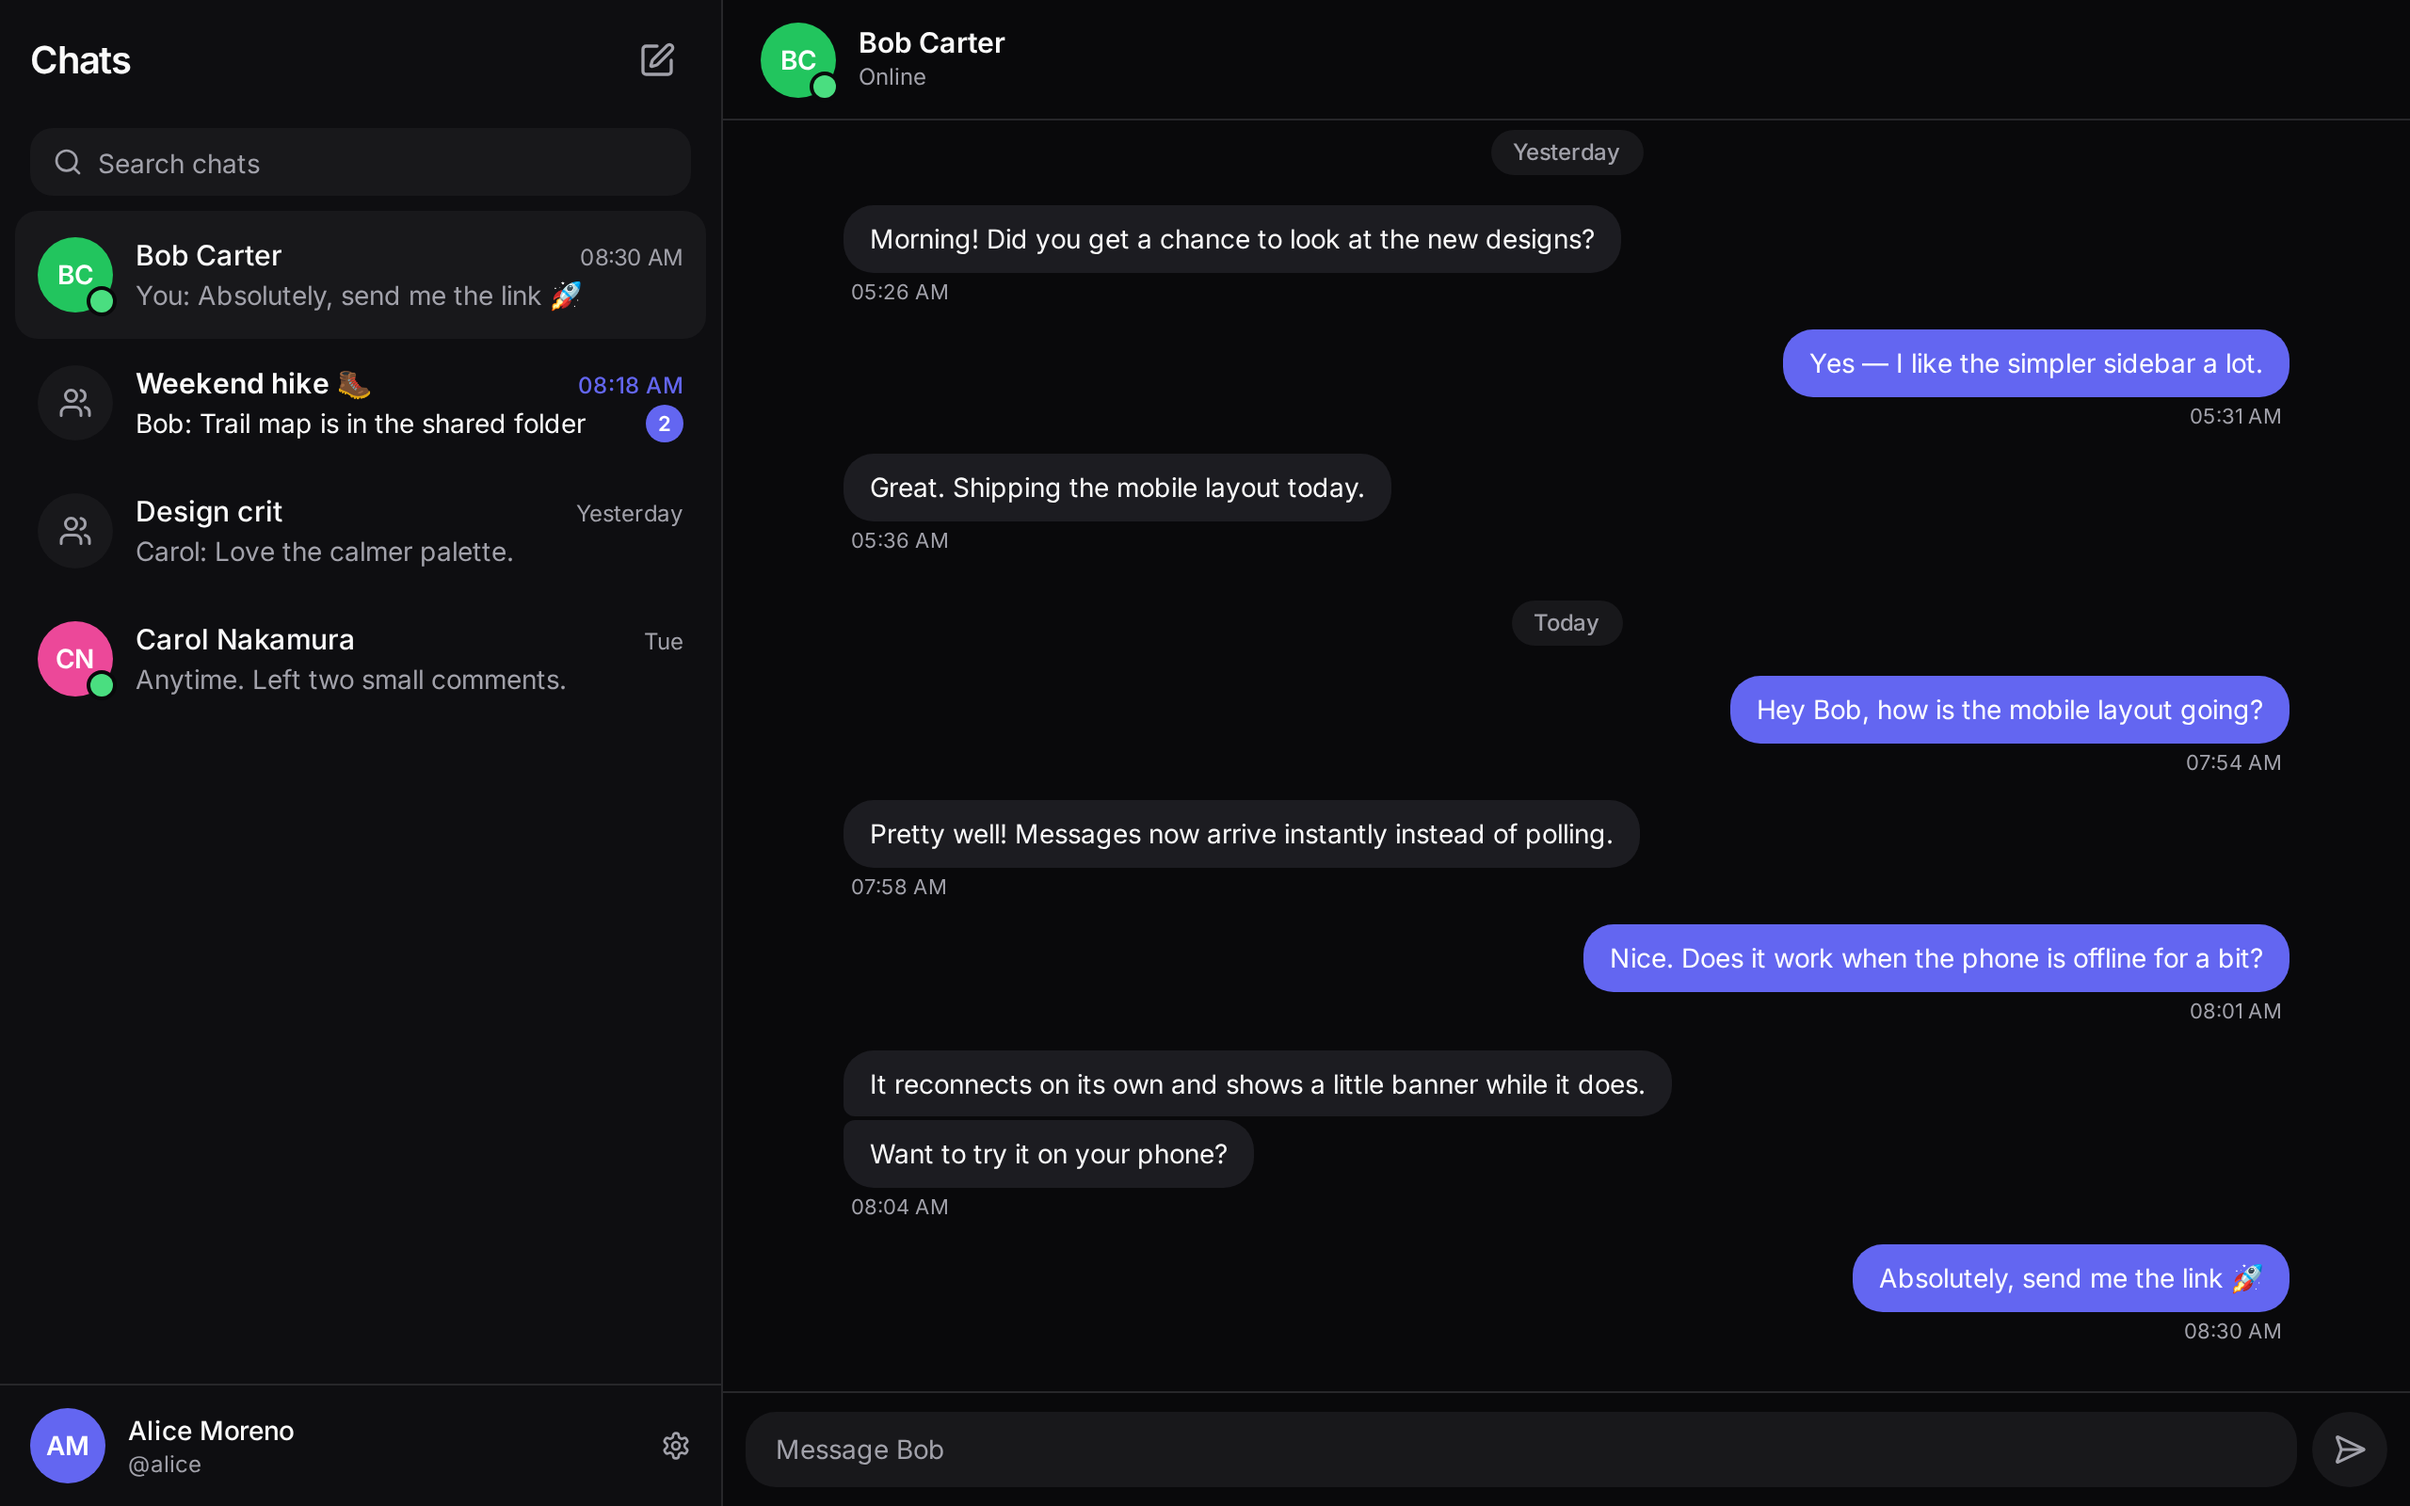
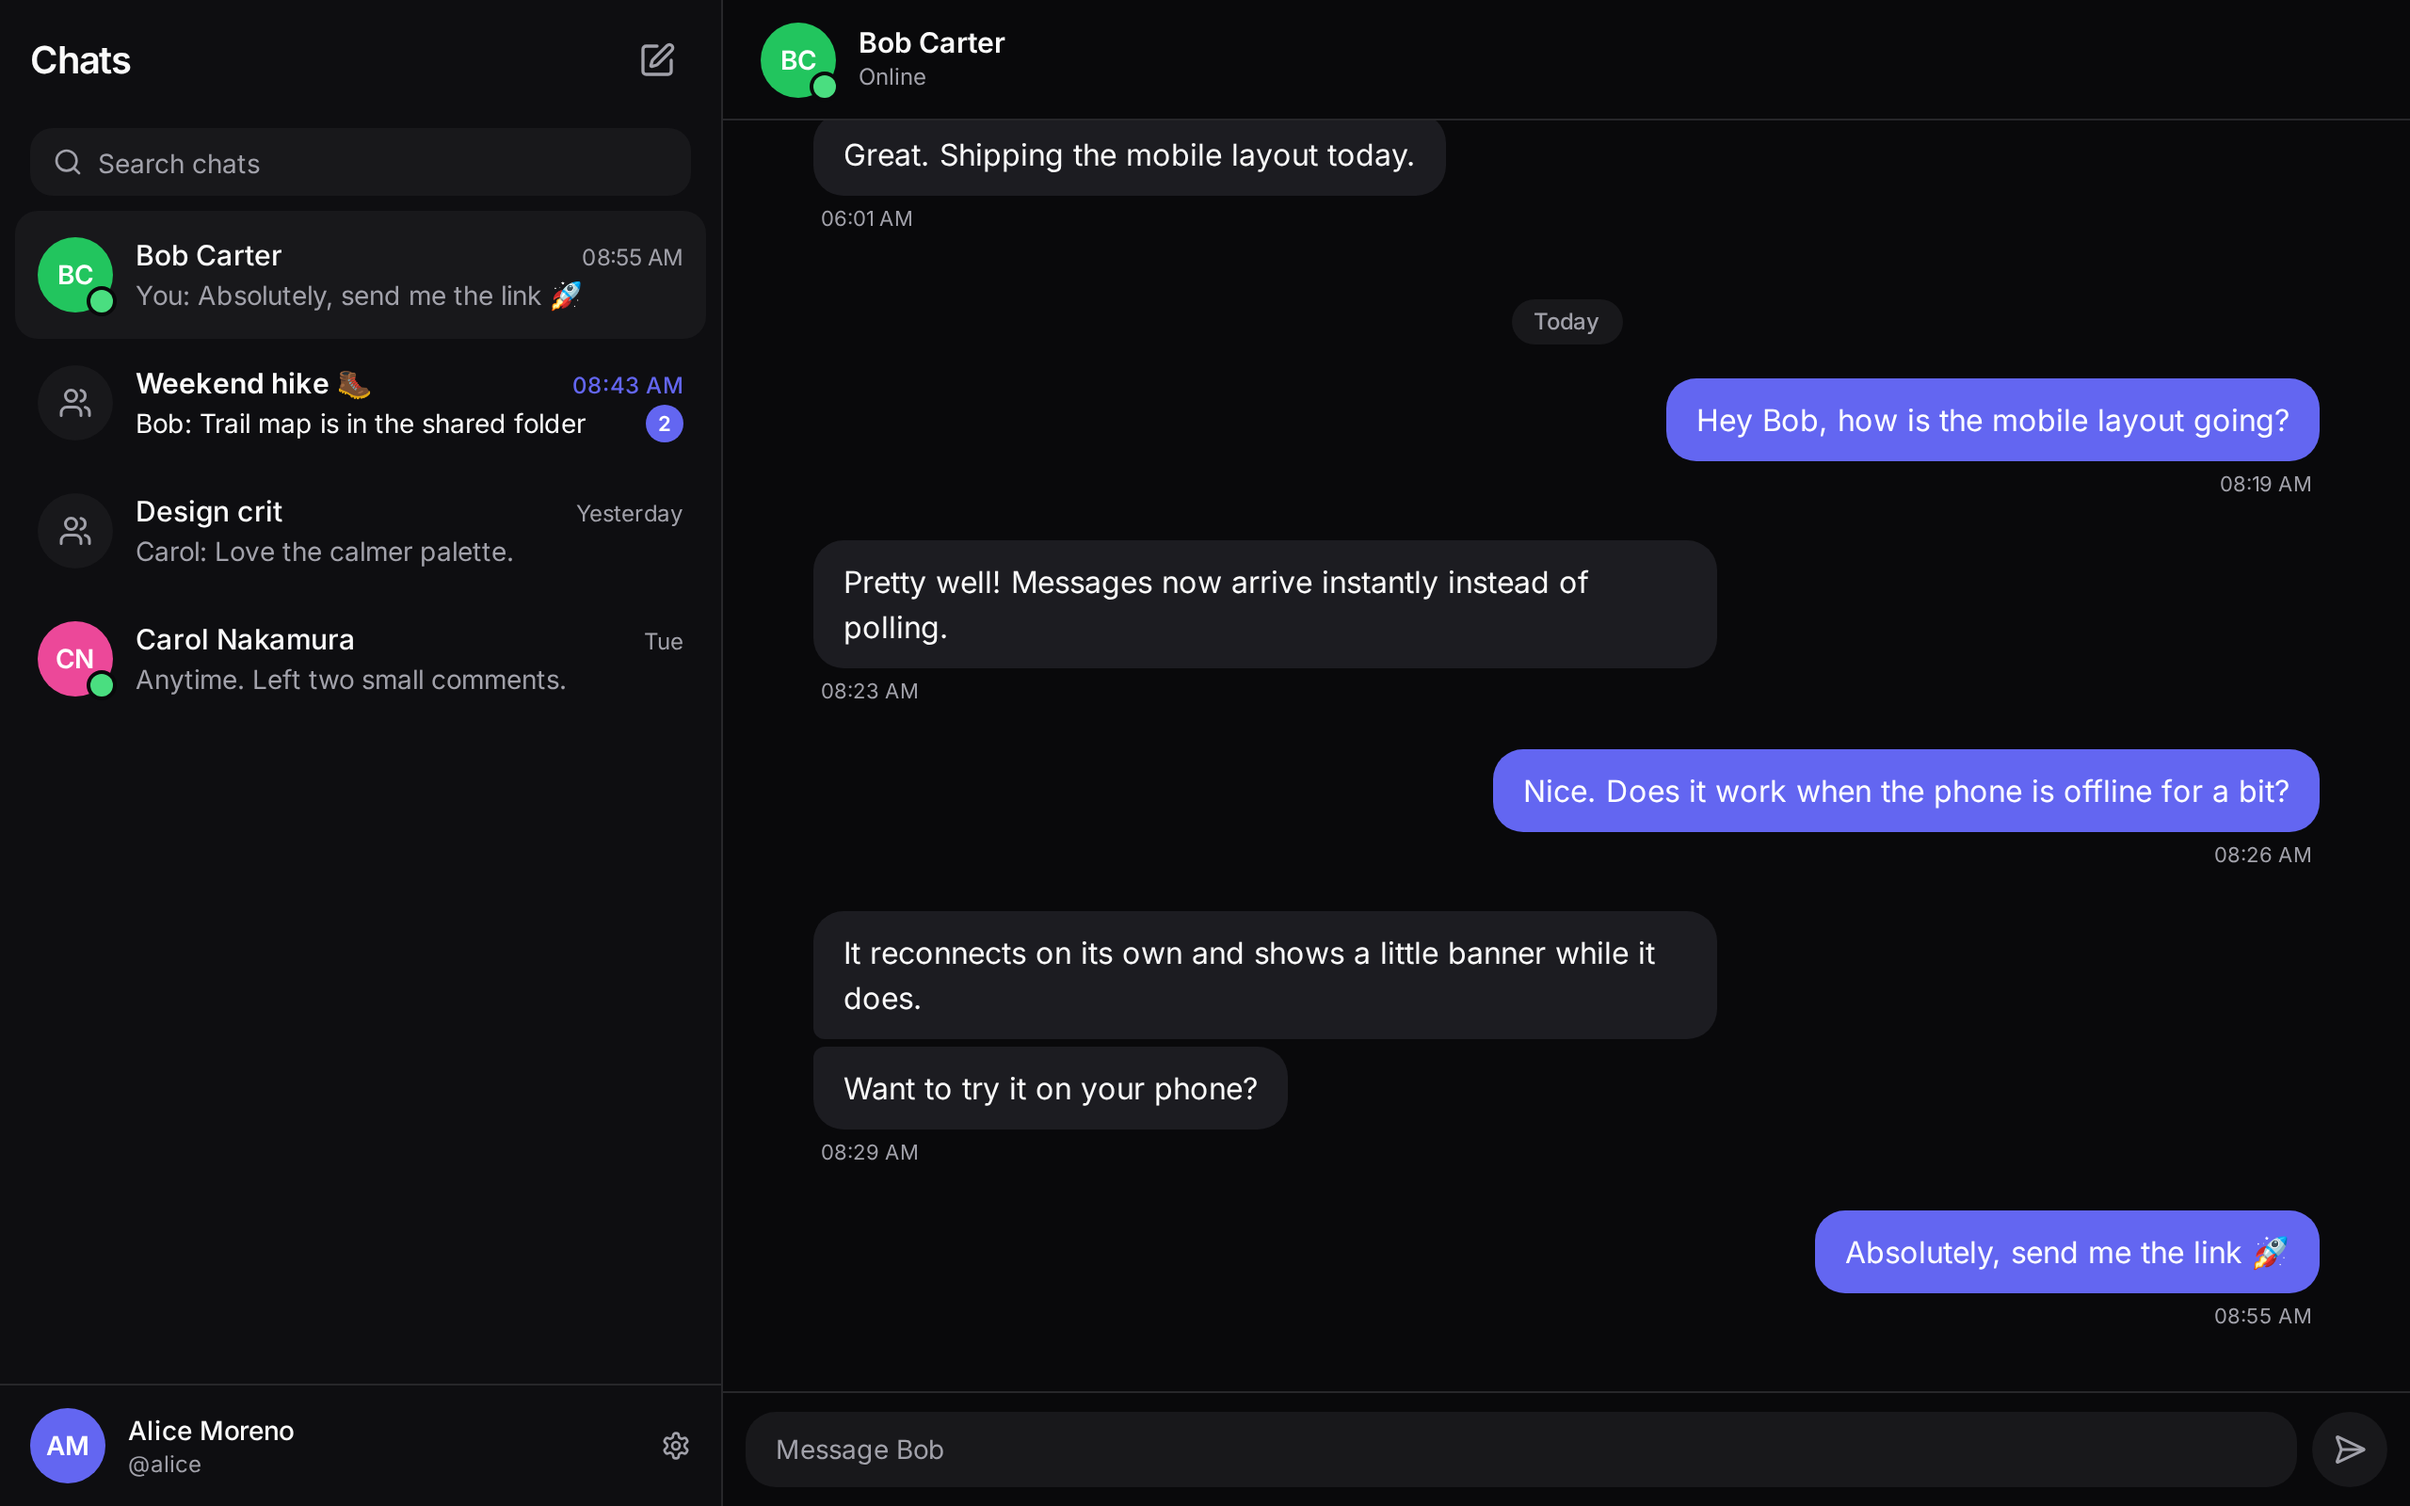
fix(web): roomier message layout on desktop
Wider message column, larger text and more spacing from md up; phone unchanged.

diff --git a/apps/web/src/features/chat/MessageList.tsx b/apps/web/src/features/chat/MessageList.tsx
@@ -30,7 +30,7 @@ function Bubble({
   return (
     <div
       className={cn(
-        'w-fit max-w-full whitespace-pre-wrap break-words rounded-2xl px-3.5 py-2 text-[15px] leading-[1.4] md:text-sm',
+        'w-fit max-w-full whitespace-pre-wrap break-words rounded-2xl px-3.5 py-2 text-[15px] leading-[1.4] md:px-4 md:py-2.5 md:text-base md:leading-normal',
         mine ? 'bg-brand text-brand-foreground' : 'bg-bubble',
         mine ? !first && 'rounded-tr-md' : !first && 'rounded-tl-md',
         mine ? !last && 'rounded-br-md' : !last && 'rounded-bl-md',
@@ -153,7 +153,7 @@ export function MessageList({
       <div
         ref={scroller}
         onScroll={onScroll}
-        className="h-full overflow-y-auto px-3 py-4 md:px-6"
+        className="h-full overflow-y-auto px-3 py-4 md:px-8 lg:px-12"
         role="log"
         aria-live="polite"
         aria-label="Messages"
@@ -169,7 +169,7 @@ export function MessageList({
           </p>
         ) : null}
 
-        <div className="mx-auto flex max-w-3xl flex-col gap-1">
+        <div className="mx-auto flex max-w-5xl flex-col gap-1 md:gap-1.5">
           {timeline.map((item) =>
             item.kind === 'day' ? (
               <div key={item.key} className="my-3 flex justify-center">
@@ -181,7 +181,7 @@ export function MessageList({
               <div
                 key={item.key}
                 className={cn(
-                  'mb-2 flex items-end gap-2',
+                  'mb-2 flex items-end gap-2 md:mb-4 md:gap-3',
                   item.mine ? 'justify-end' : 'justify-start',
                 )}
               >
@@ -195,7 +195,7 @@ export function MessageList({
                 ) : null}
                 <div
                   className={cn(
-                    'flex min-w-0 max-w-[80%] flex-col gap-0.5 md:max-w-[70%]',
+                    'flex min-w-0 max-w-[80%] flex-col gap-0.5 md:max-w-[60%] md:gap-1',
                     item.mine ? 'items-end' : 'items-start',
                   )}
                 >
@@ -225,8 +225,8 @@ export function MessageList({
           )}
 
           {pending.map((p) => (
-            <div key={p.tempId} className="mb-2 flex flex-col items-end gap-0.5">
-              <div className="max-w-[80%] md:max-w-[70%]">
+            <div key={p.tempId} className="mb-2 md:mb-4 flex flex-col items-end gap-0.5">
+              <div className="max-w-[80%] md:max-w-[60%]">
                 <Bubble text={p.body} mine first last muted={p.status === 'sending'} />
               </div>
               {p.status === 'failed' ? (
